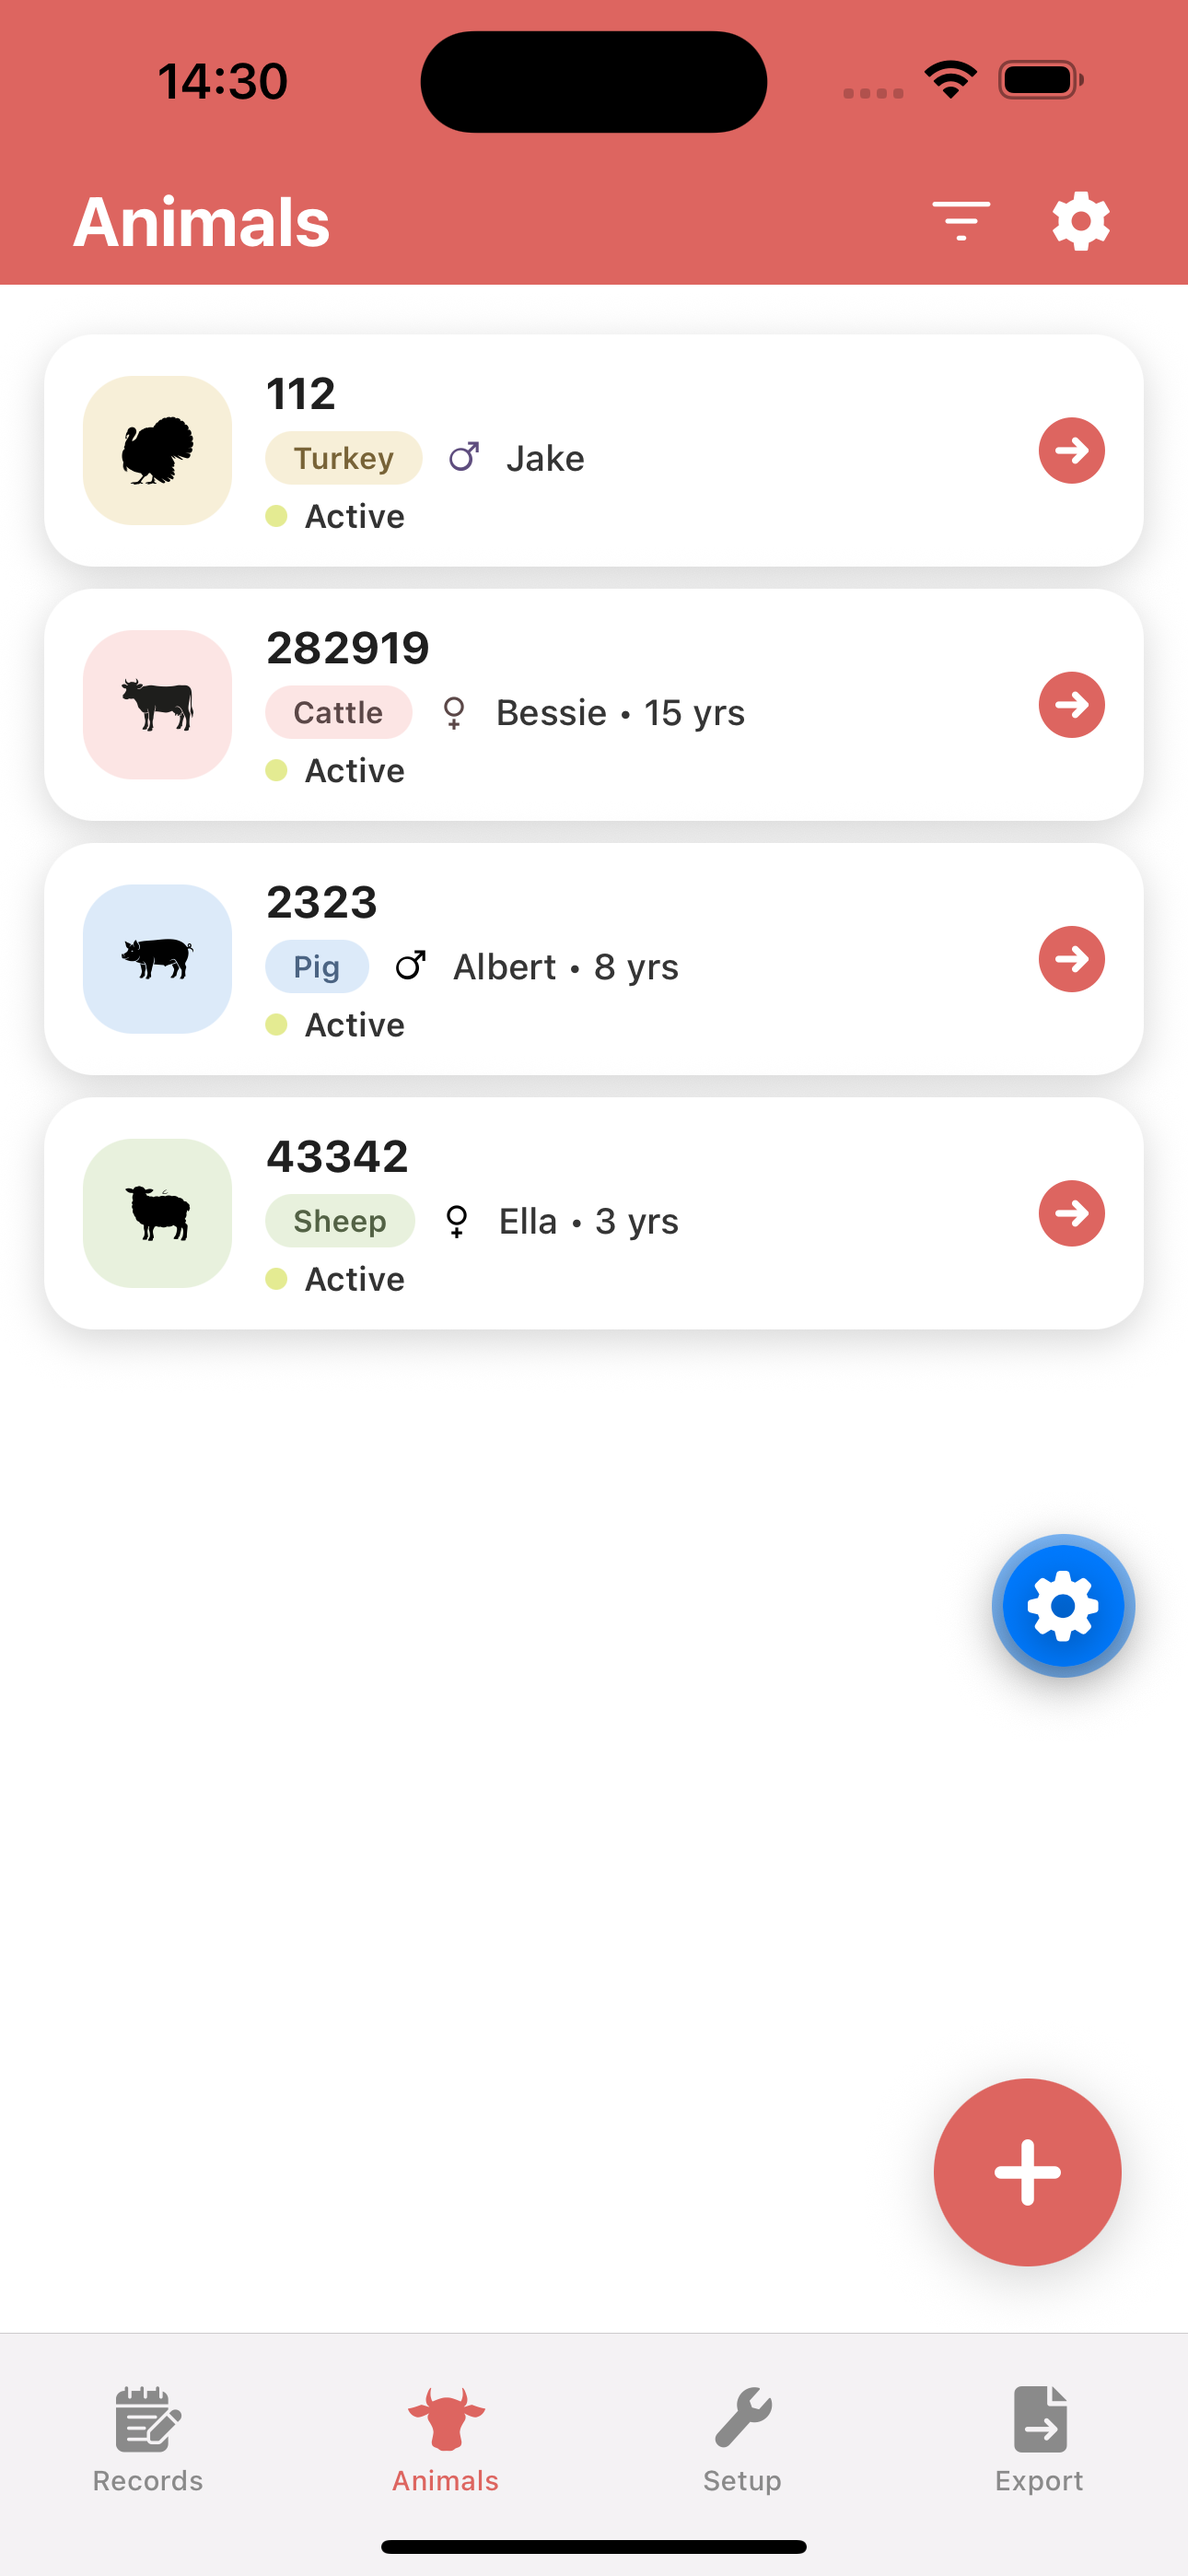
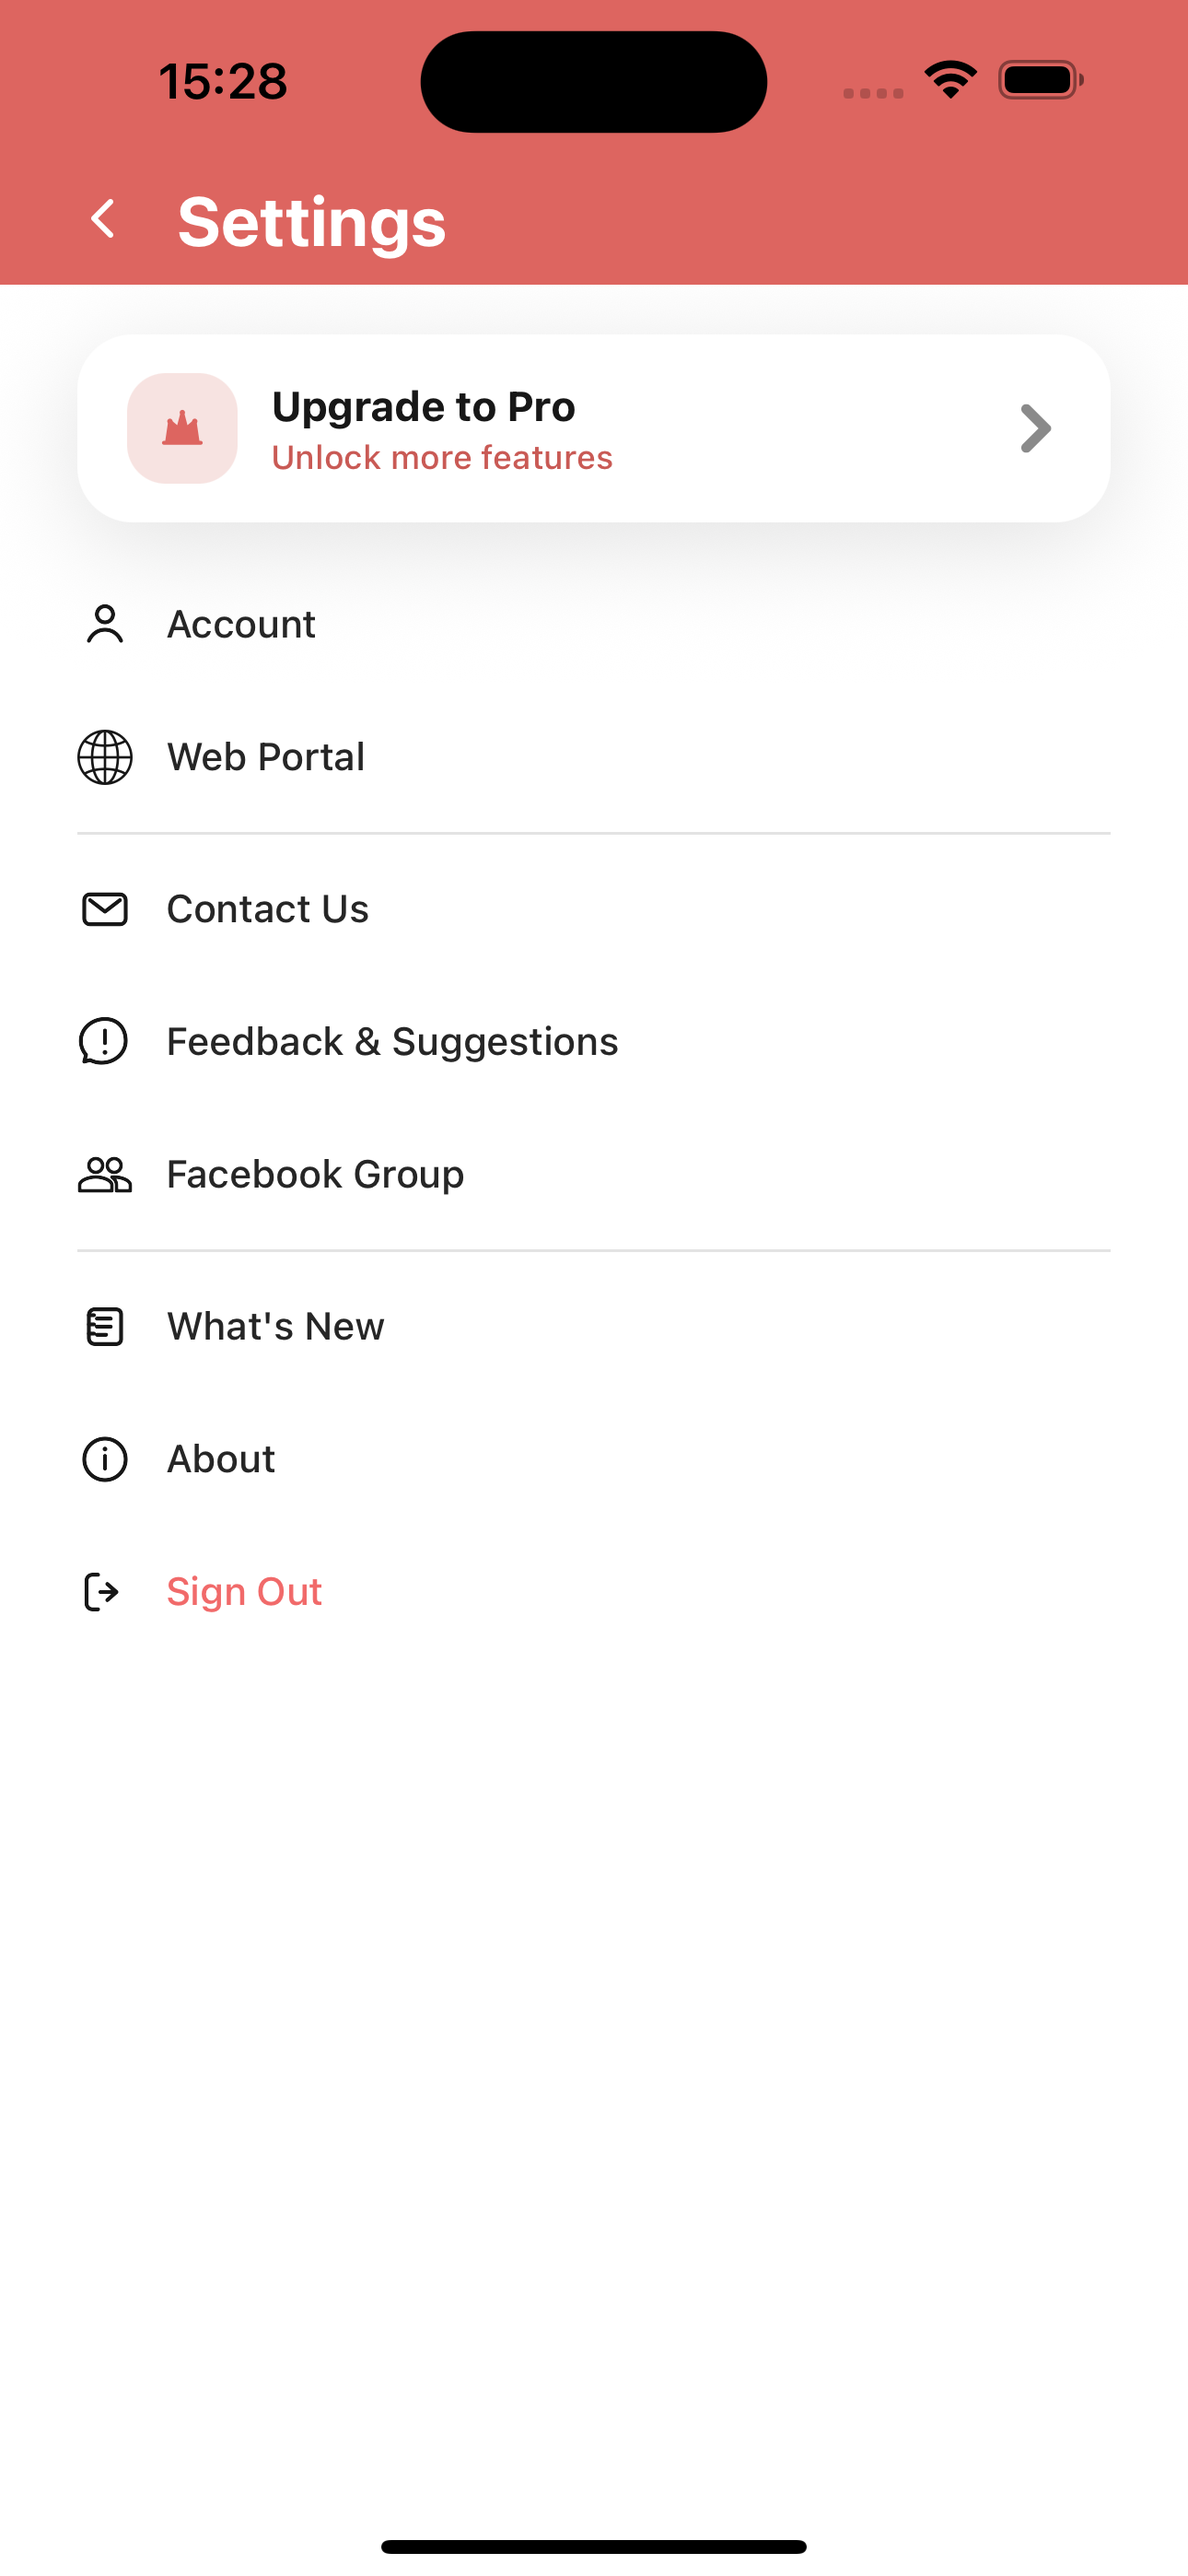
Update website assets and branding

diff --git a/docs/index.html b/docs/index.html
@@ -8,6 +8,8 @@
     name="description"
     content="LivestockBook is a simple mobile app for livestock records, farm setup, and exports."
   />
+  <link rel="icon" type="image/png" href="./favicon.png" />
+  <link rel="apple-touch-icon" href="./favicon.png" />
   <link rel="stylesheet" href="./styles.css" />
 </head>
 <body>
@@ -31,7 +33,7 @@
           <p class="eyebrow hero-eyebrow">Built for everyday farm records</p>
           <h1>LivestockBook keeps animal management simple.</h1>
           <p class="hero-text">
-            Keep your animal records, setup data, and exports in one mobile workflow that stays clear and easy to use.
+            Create and maintain animal records right from your device, then export seamlessly to help stay legally compliant.
           </p>
           <div class="hero-actions">
             <a class="button button-light" href="#screens">See the app</a>

diff --git a/docs/styles.css b/docs/styles.css
@@ -69,8 +69,8 @@ h2,
 }
 
 .brand-logo {
-  width: 42px;
-  height: 42px;
+  width: 30px;
+  height: 30px;
   object-fit: contain;
 }
 
@@ -229,7 +229,7 @@ h2,
 }
 
 .hero-phone-live {
-  width: min(300px, 100%);
+  width: min(220px, 100%);
   transform: rotate(-4deg);
 }
 
@@ -442,7 +442,7 @@ h2,
 
   .hero-phone,
   .phone-placeholder {
-    width: min(280px, 100%);
+    width: min(220px, 100%);
   }
 
   .placeholder-row {
